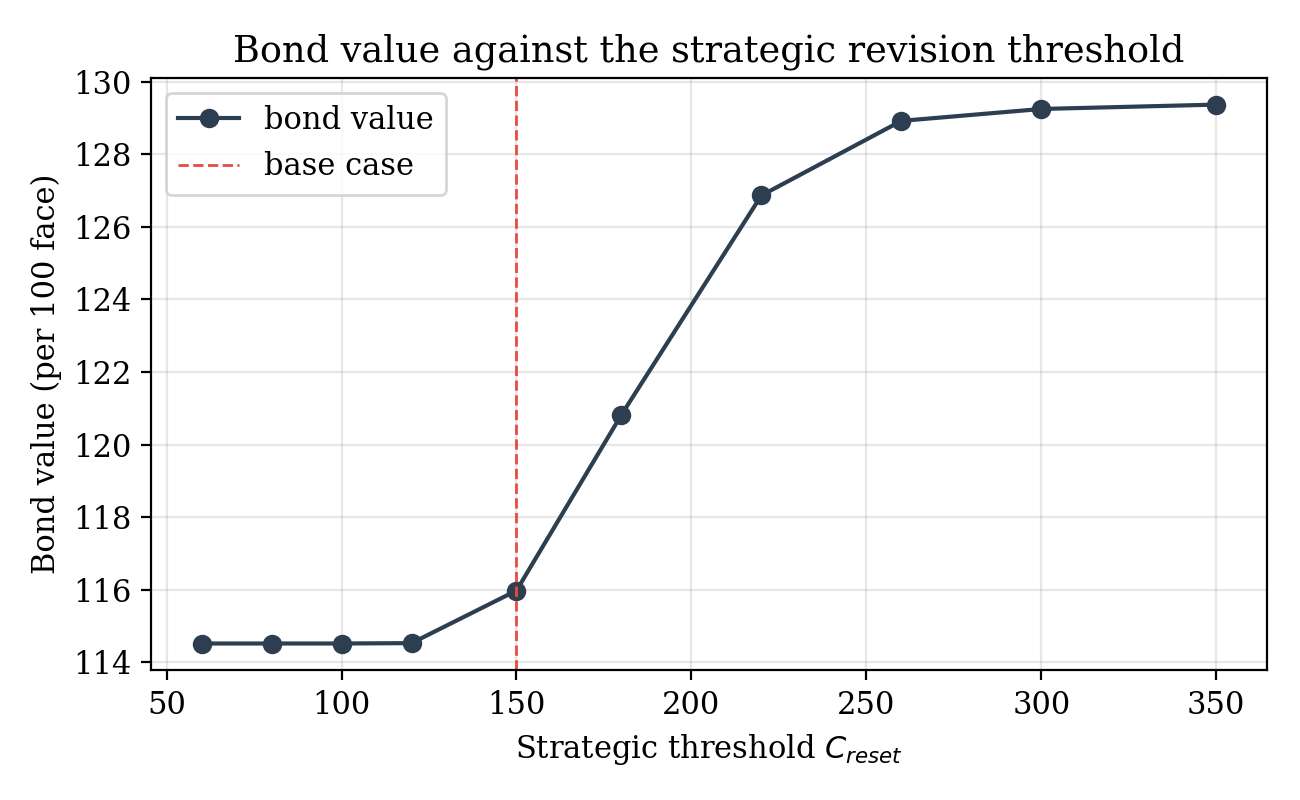
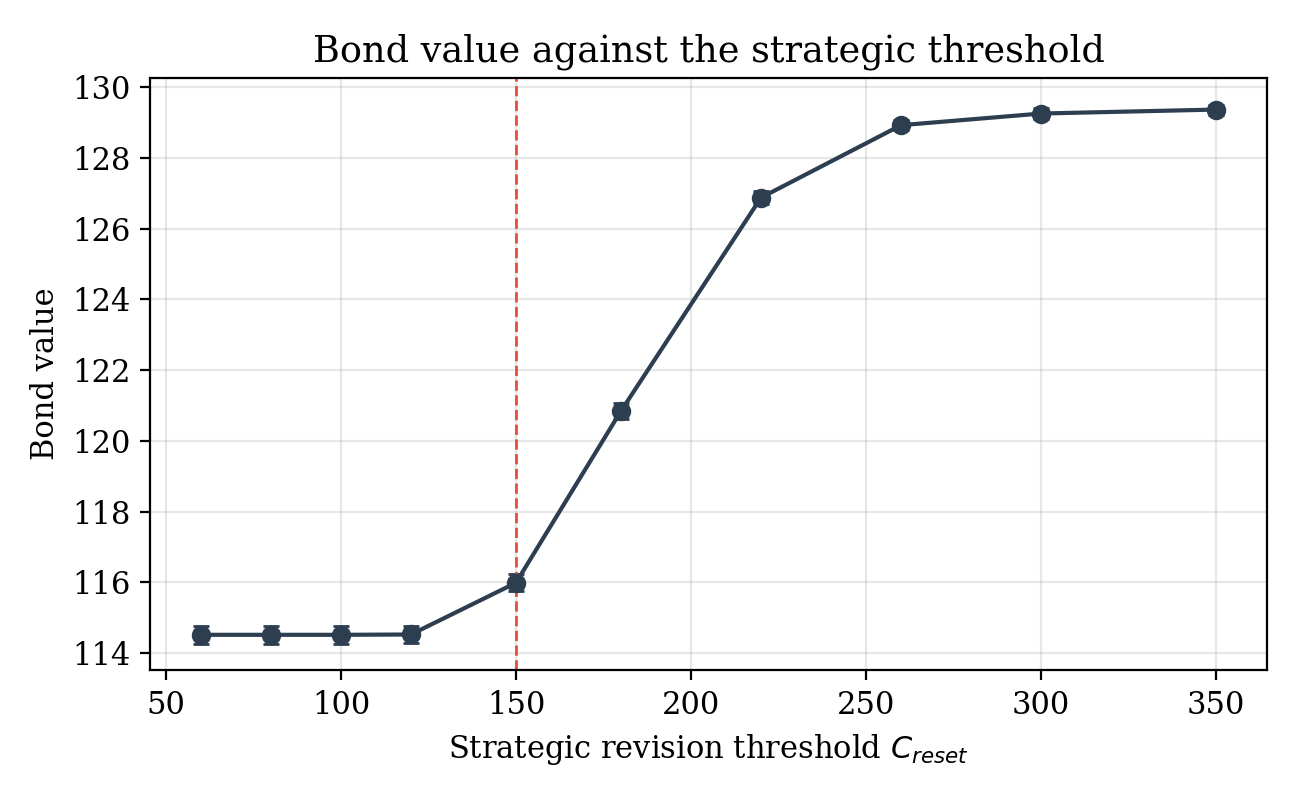
Model operating capital with realized-return feedback alpha*dS_t/S_t; regenerate experiments and figures

diff --git a/erccb/simulate.py b/erccb/simulate.py
@@ -3,7 +3,7 @@
 The stock price S_t and the operating capital C_t evolve as
 
     dS_t = [r - q + mu(C_t)] S_t dt + sigma_s(C_t) S_t dW^s_t,
-    dC_t = [theta*(C_bar - C_t) + alpha*(r - q + mu(C_t))] dt
+    dC_t = theta*(C_bar - C_t) dt + alpha * dS_t/S_t
            + sigma_c C_t dW^c_t - dDischarge_t,
 
 with a distress drift and a liquidity-amplified volatility
@@ -116,8 +116,10 @@ def _simulate(
             if s_new < 0.0:
                 s_new = 0.0
 
-            # deterministic capital feedback from expected equity performance
-            feedback = alpha * (r - q + mu) * dt
+            # capital feedback from realized equity performance: alpha * dS/S.
+            # The stock step is computed above, so the realized return
+            # (s_new - s)/s feeds directly into the capital drift.
+            feedback = alpha * (s_new - s) / max(s, eps)
             c_new = (c + theta * (C_bar - c) * dt + feedback
                      + sigma_c * c * dw_c)
             # discharge: coupon at year-end (years 1..5)

diff --git a/experiments/make_figures.py b/experiments/make_figures.py
@@ -104,11 +104,26 @@ def fig_e4():
     plt.close(fig)
 
 
+def fig_e5():
+    df = pd.read_csv(os.path.join(DATA, "e5_robustness_threshold.csv"))
+    fig, ax = plt.subplots(figsize=(6.5, 4))
+    ax.errorbar(df.C_reset, df.price, yerr=df["se"], fmt="o-", color="#2c3e50",
+                capsize=3)
+    ax.axvline(150.0, color="#e74c3c", linestyle="--", linewidth=1.0)
+    ax.set_xlabel("Strategic revision threshold $C_{reset}$")
+    ax.set_ylabel("Bond value")
+    ax.set_title("Bond value against the strategic threshold")
+    fig.tight_layout()
+    fig.savefig(os.path.join(FIG, "fig_e5_threshold.png"), dpi=200)
+    plt.close(fig)
+
+
 def main():
     fig_e1()
     fig_e2()
     fig_e3()
     fig_e4()
+    fig_e5()
     print("[figures] done")
 
 

diff --git a/erccb/params.py b/erccb/params.py
@@ -39,7 +39,7 @@ class ERCCBParams:
     C_safe: float = 200.0       # safety threshold of operating capital
     theta: float = 0.80         # mean-reversion speed of capital
     C_bar: float = 300.0        # long-run (target) capital level
-    alpha: float = 0.50         # capital feedback to stock returns
+    alpha: float = 0.50         # capital feedback to realized stock returns (dS/S)
     sigma_c: float = 0.25       # capital volatility
     rho: float = 0.60           # instantaneous corr(Ws, Wc)
 

diff --git a/README.md b/README.md
@@ -12,7 +12,7 @@ coupled system:
 
 ```
 dS = [r - q + mu(C)] S dt + sigma_s(C) S dW^s
-dC = [theta*(C_bar - C) + alpha*(r - q + mu(C))] dt + sigma_c C dW^c - dDischarge
+dC = theta*(C_bar - C) dt + alpha * dS/S + sigma_c C dW^c - dDischarge
 ```
 
 with a distress drift `mu(C) = -eta * max(0, (C_safe - C)/C_safe)` and a
